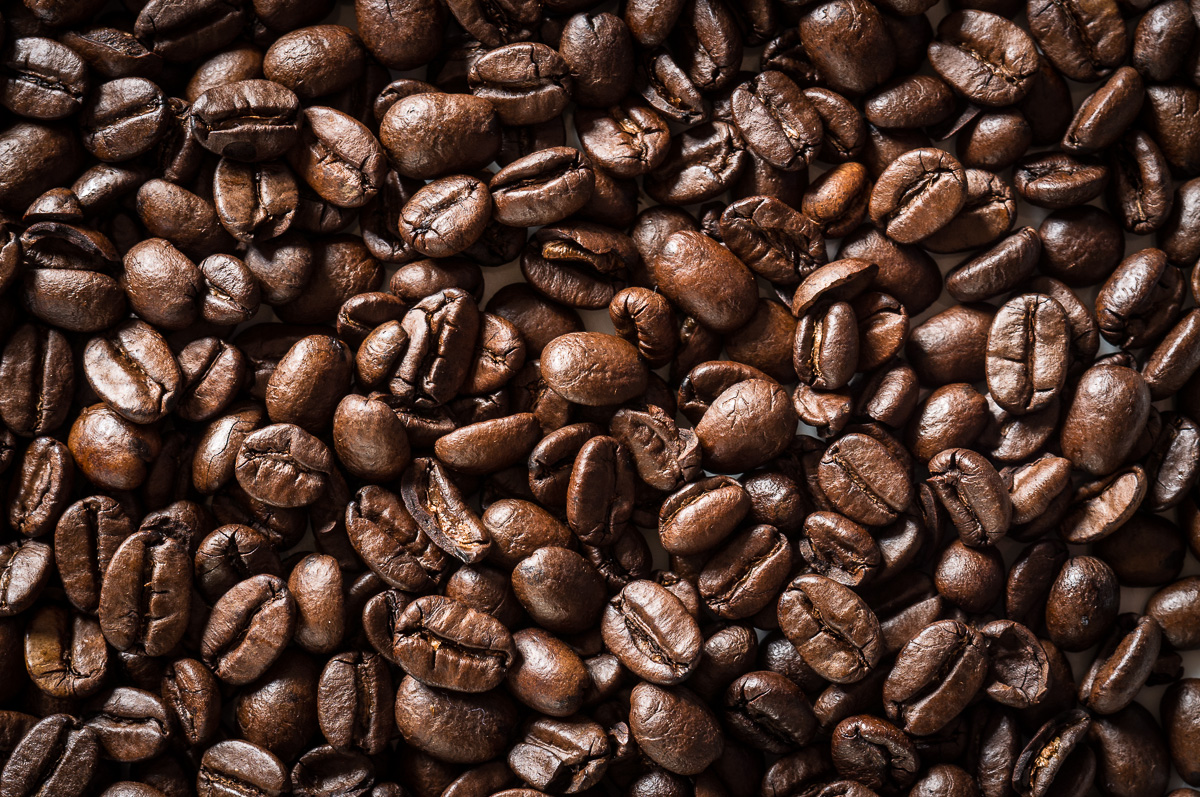
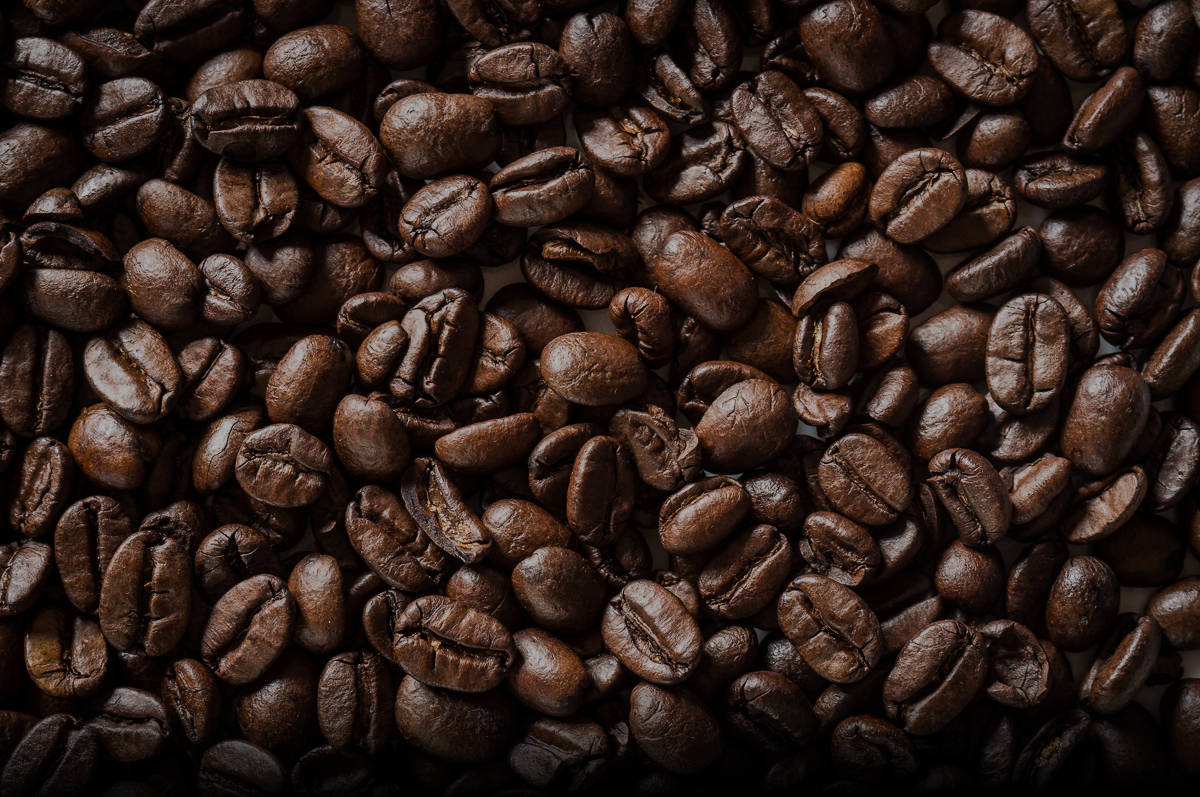
image remastered

diff --git a/php/css/grayscale.css b/php/css/grayscale.css
@@ -147,7 +147,7 @@ a:focus {
     padding: 100px 0;
     text-align: center;
     color: #fff;
-    background: url(/images/kaffeebohnen.jpg) no-repeat bottom center scroll;
+    background: url(/php/images/kaffeebohnen.jpg) no-repeat bottom center scroll;
     background-color: #000;
     -webkit-background-size: cover;
     -moz-background-size: cover;
